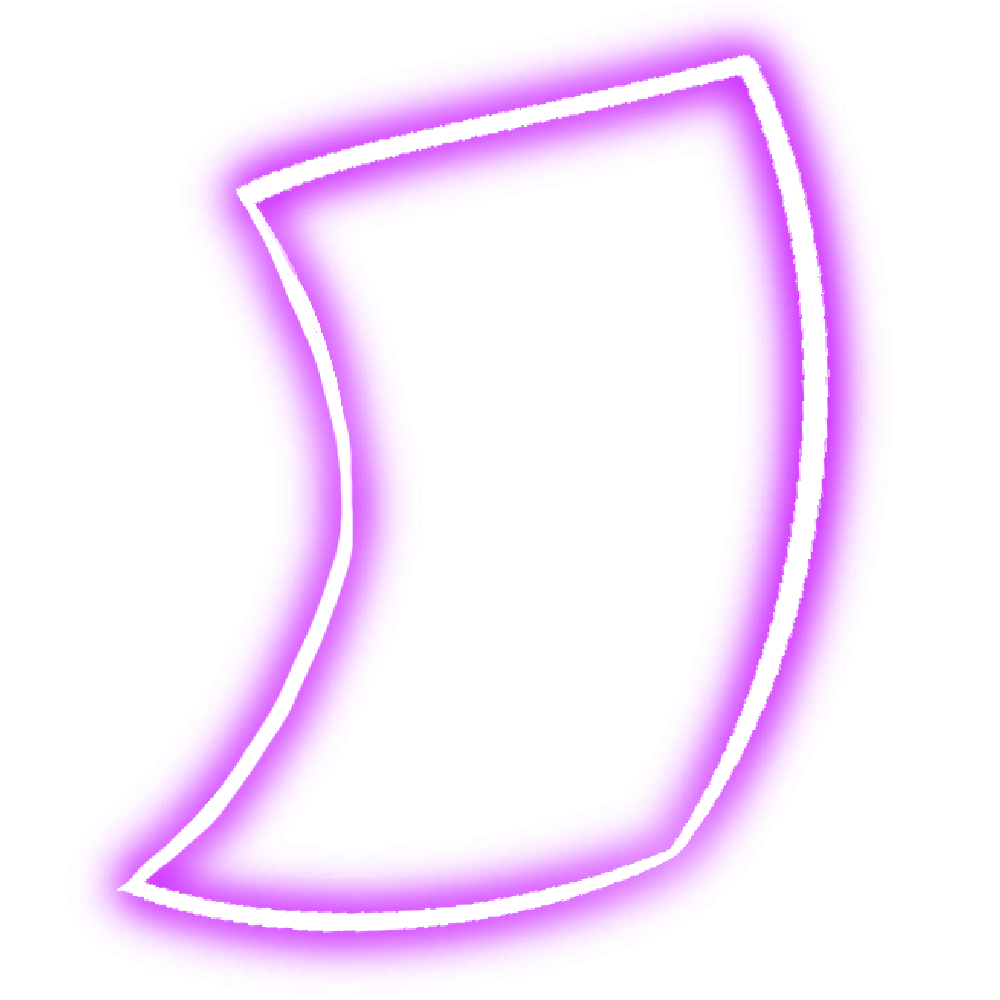
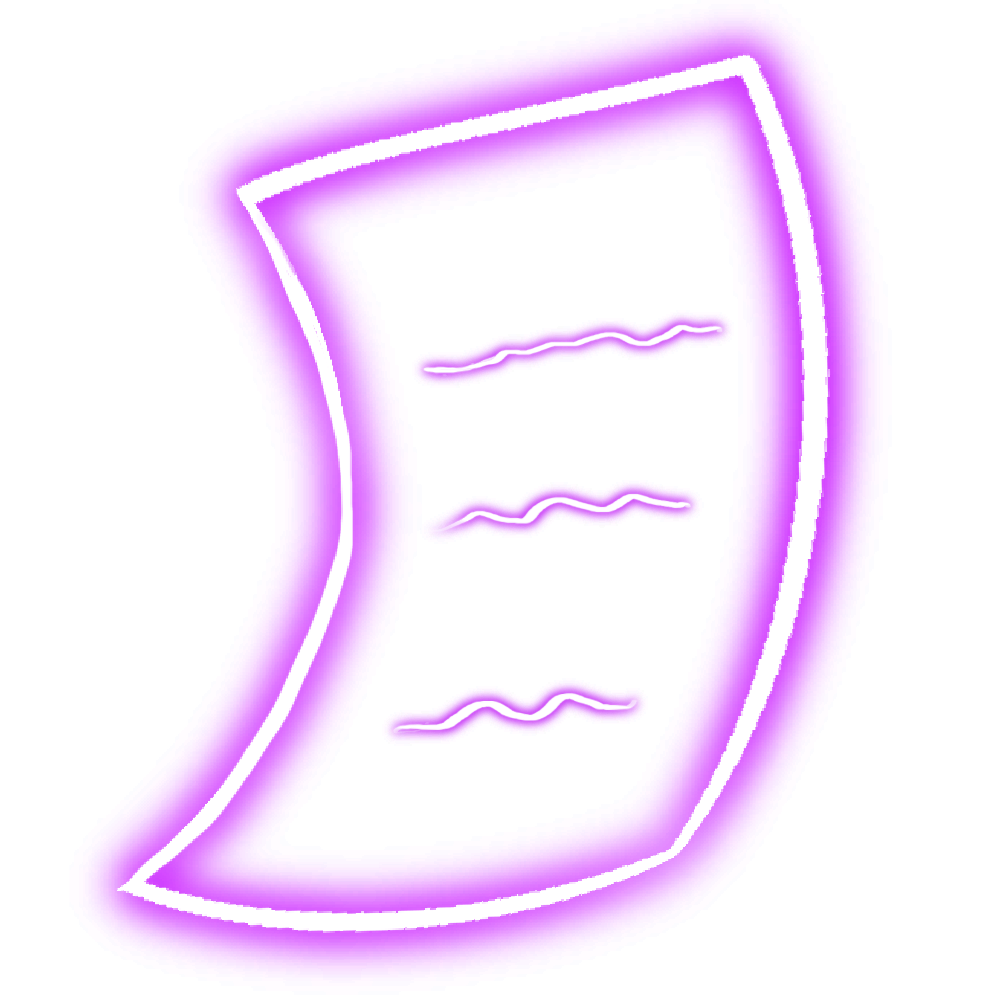
Title screen animation, paper image

Changed region(s): [[0.403, 0.31, 0.744, 0.403], [0.434, 0.465, 0.713, 0.558], [0.372, 0.682, 0.651, 0.744]]

diff --git a/index.js b/index.js
@@ -30,11 +30,16 @@ let playerPoints = 0
 let cpuPoints = 0
 play.addEventListener("click", battle)
 
-//The beginning animation
-tl.to('header', { duration: 3, y: '-155%' }, 2)
-    .to('main', { duration: 0.5, opacity: 1 })
-    .set('header', {visibility:'hidden'});
+//The title screen animation.
+tl.set('body', {overflowY:'hidden'})
+    .to('header', {duration:0.5, y:20},2)
+    .to('header', { duration: 3, y: '-155%',ease: "power2"})
+    .to('main', { duration: 0.5, opacity: 1})
+    .set('header', {visibility:'hidden'})
+    .set('body', {overflowY:'auto'})
 
+
+//The neon animation.
 gsap.to('.pulse',
     {
         duration: 1.5,

diff --git a/index.css b/index.css
@@ -21,6 +21,7 @@ body {
     background-color: black;
     padding: 10px;
     overflow-x:hidden;
+    
 }
 
 /*The introduction menu*/
